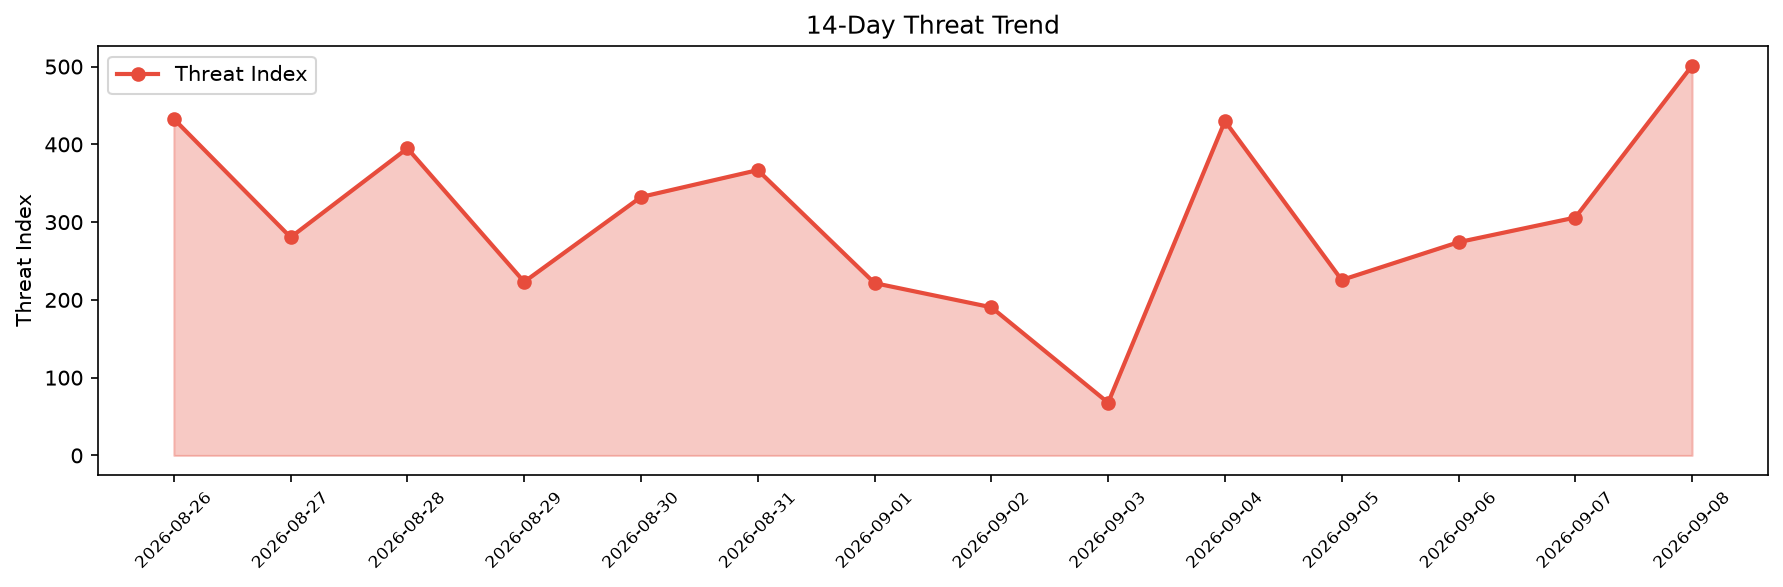
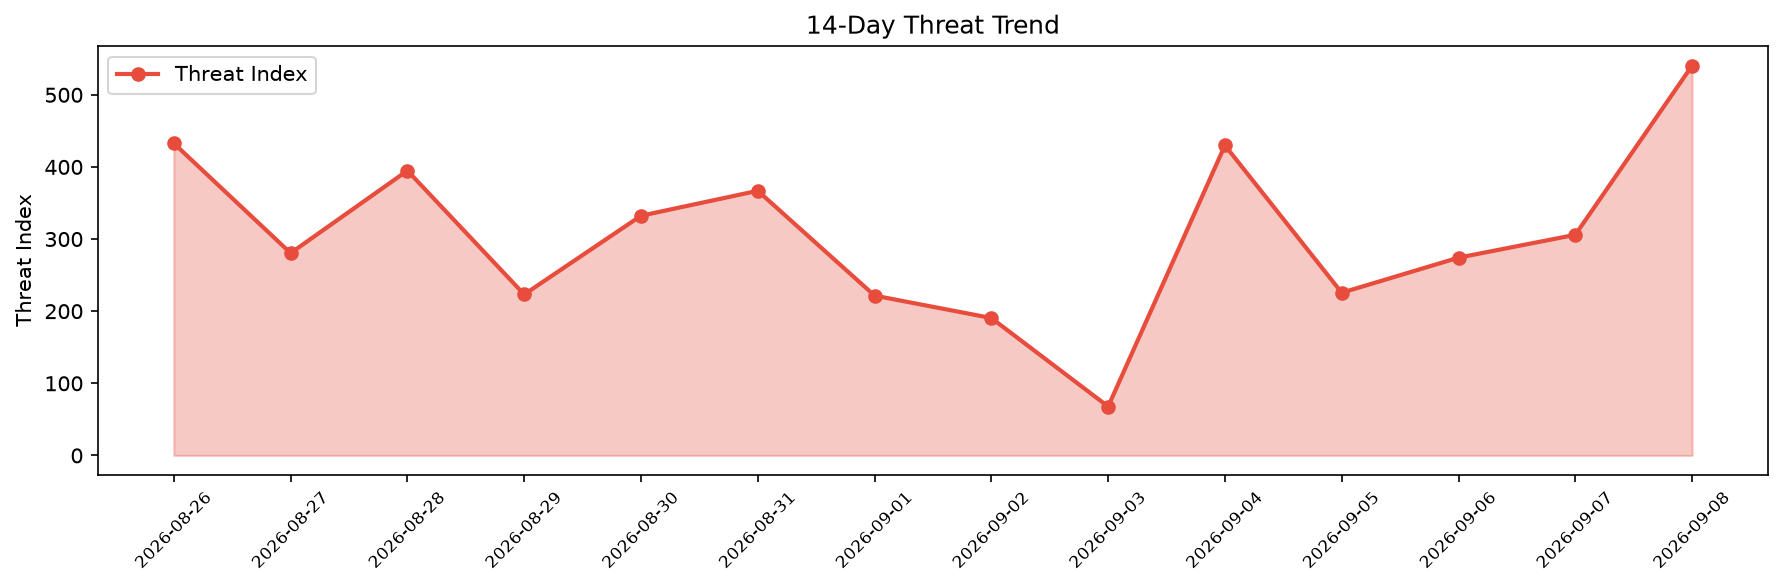
daily-experiments: security scan 2026-09-08T22:48

diff --git a/logs/2026-09-08.md b/logs/2026-09-08.md
@@ -1,6 +1,6 @@
 # Security Scan Report — 2026-09-08
 
-**Scan ID:** `721ab5e35b` | **CVEs:** 20 | **Threat Index:** 501.2
+**Scan ID:** `e7e4f9545e` | **CVEs:** 20 | **Threat Index:** 540.4
 
 ![Dashboard](2026-09-08_dashboard.png)
 
@@ -10,20 +10,19 @@
 
 | Metric | Value |
 |--------|-------|
-| Threat Index | 501.2 |
-| Critical CVEs | 7 |
-| CRITICAL | 7 |
+| Threat Index | 540.4 |
+| Critical CVEs | 8 |
+| CRITICAL | 8 |
 | HIGH | 8 |
 | MEDIUM | 4 |
-| UNKNOWN | 1 |
 
 ## Delta vs Yesterday
 
 | Metric | Today | Yesterday | Change |
 |--------|-------|-----------|--------|
 | total_cves | 20 | 20 | ➡ 0.0% |
-| threat_index | 501.2 | 305.9 | 📈 63.8% |
-| critical_count | 7 | 1 | 📈 600.0% |
+| threat_index | 540.4 | 305.9 | 📈 76.7% |
+| critical_count | 8 | 1 | 📈 700.0% |
 
 ## Top Weakness Categories
 
@@ -43,6 +42,7 @@
 | CVE-2026-86167 | 9.9 | CRITICAL | A vulnerability was identified in Tenda HG10 300001138. Impacted is the function... |
 | CVE-2026-16310 | 9.8 | CRITICAL | The MemberDash plugin for WordPress is vulnerable to Insecure Direct Object Refe... |
 | CVE-2026-75816 | 9.8 | CRITICAL | The Frontend Admin by DynamiApps plugin for WordPress is vulnerable to Authentic... |
+| CVE-2026-86218 | 9.8 | CRITICAL | N-central is vulnerable to a pre-auth remote code execution This issue affects N... |
 | CVE-2026-86165 | 9.8 | CRITICAL | A vulnerability was found in Tenda HG10 300001138. This vulnerability affects th... |
 | CVE-2026-86151 | 9.1 | CRITICAL | A vulnerability was detected in Tenda CP3 27.5.57.101. The affected element is t... |
 | CVE-2026-86153 | 9.1 | CRITICAL | A vulnerability has been found in Tenda CP3 27.5.57.101. This affects the functi... |
@@ -53,4 +53,3 @@
 | CVE-2026-86160 | 7.3 | HIGH | A vulnerability has been found in SourceCodester Online Voting System 1.0. The a... |
 | CVE-2026-86161 | 7.3 | HIGH | A vulnerability was found in SourceCodester Online Voting System 1.0. The impact... |
 | CVE-2026-86162 | 7.3 | HIGH | A vulnerability was determined in SourceCodester Online Voting System 1.0. This ... |
-| CVE-2026-86168 | 7.3 | HIGH | A security flaw has been discovered in code-projects Content Management System 1... |
